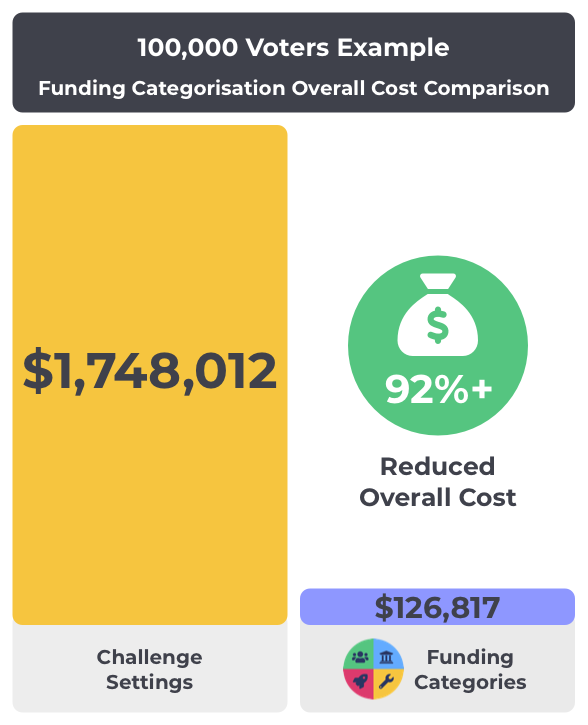
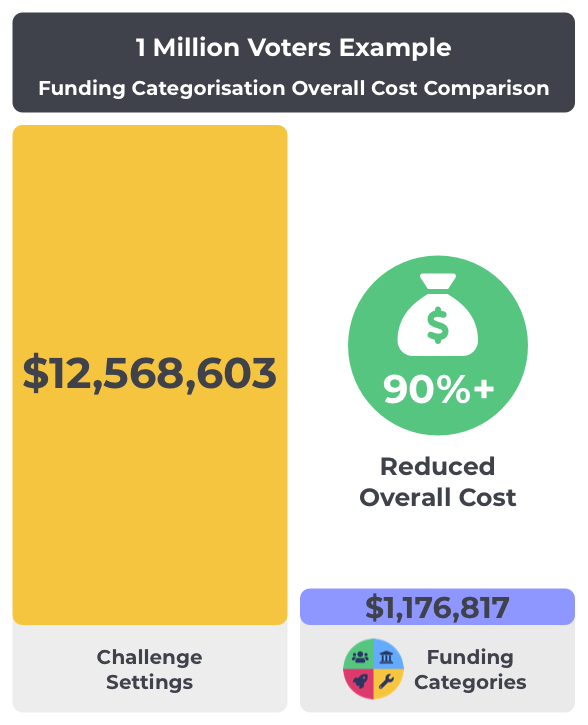
GitBook: [#39] No subject

diff --git a/historical-analysis-and-comparisons/categorisation-overall-cost-comparison/README.md b/historical-analysis-and-comparisons/categorisation-overall-cost-comparison/README.md
@@ -47,13 +47,11 @@ Scaled examples to show cost comparisons in different scenarios such as increase
 
 
 
-**Increased voter example**
+**1 million voters example**
 
 ![](../../.gitbook/assets/overall-costs-voter-example.png)
 
-****
-
-**Increased proposer example**
+**10,000 proposers example**
 
 ![](../../.gitbook/assets/overall-costs-proposer-example.png)
 
@@ -65,7 +63,7 @@ Scaled examples to show cost comparisons in different scenarios such as increase
 
 **Very high voter cost with challenge settings**
 
-Anything that increases the time required for voters to participate increases the total cost drastically due to the need to scale the number of voters that participate. The voter is the highest population member involved in the voting process. The cost of all a voters tasks in aggregate to participate in the funding process need to be optimised where possible to increase the amount of participation that is possible.
+Challenge settings don't effectively scale for the voter as they must review a large number of categorisations to make a decision. Increasing effort requirements for voters to participate increases the total cost drastically for the voting process and decreases the likelihood of scalable participation. The voter is the highest population member involved in the voting process which means that tasks required for them to participate in the funding process need to be optimised to help increase their ability to fully participate.
 
 
 
